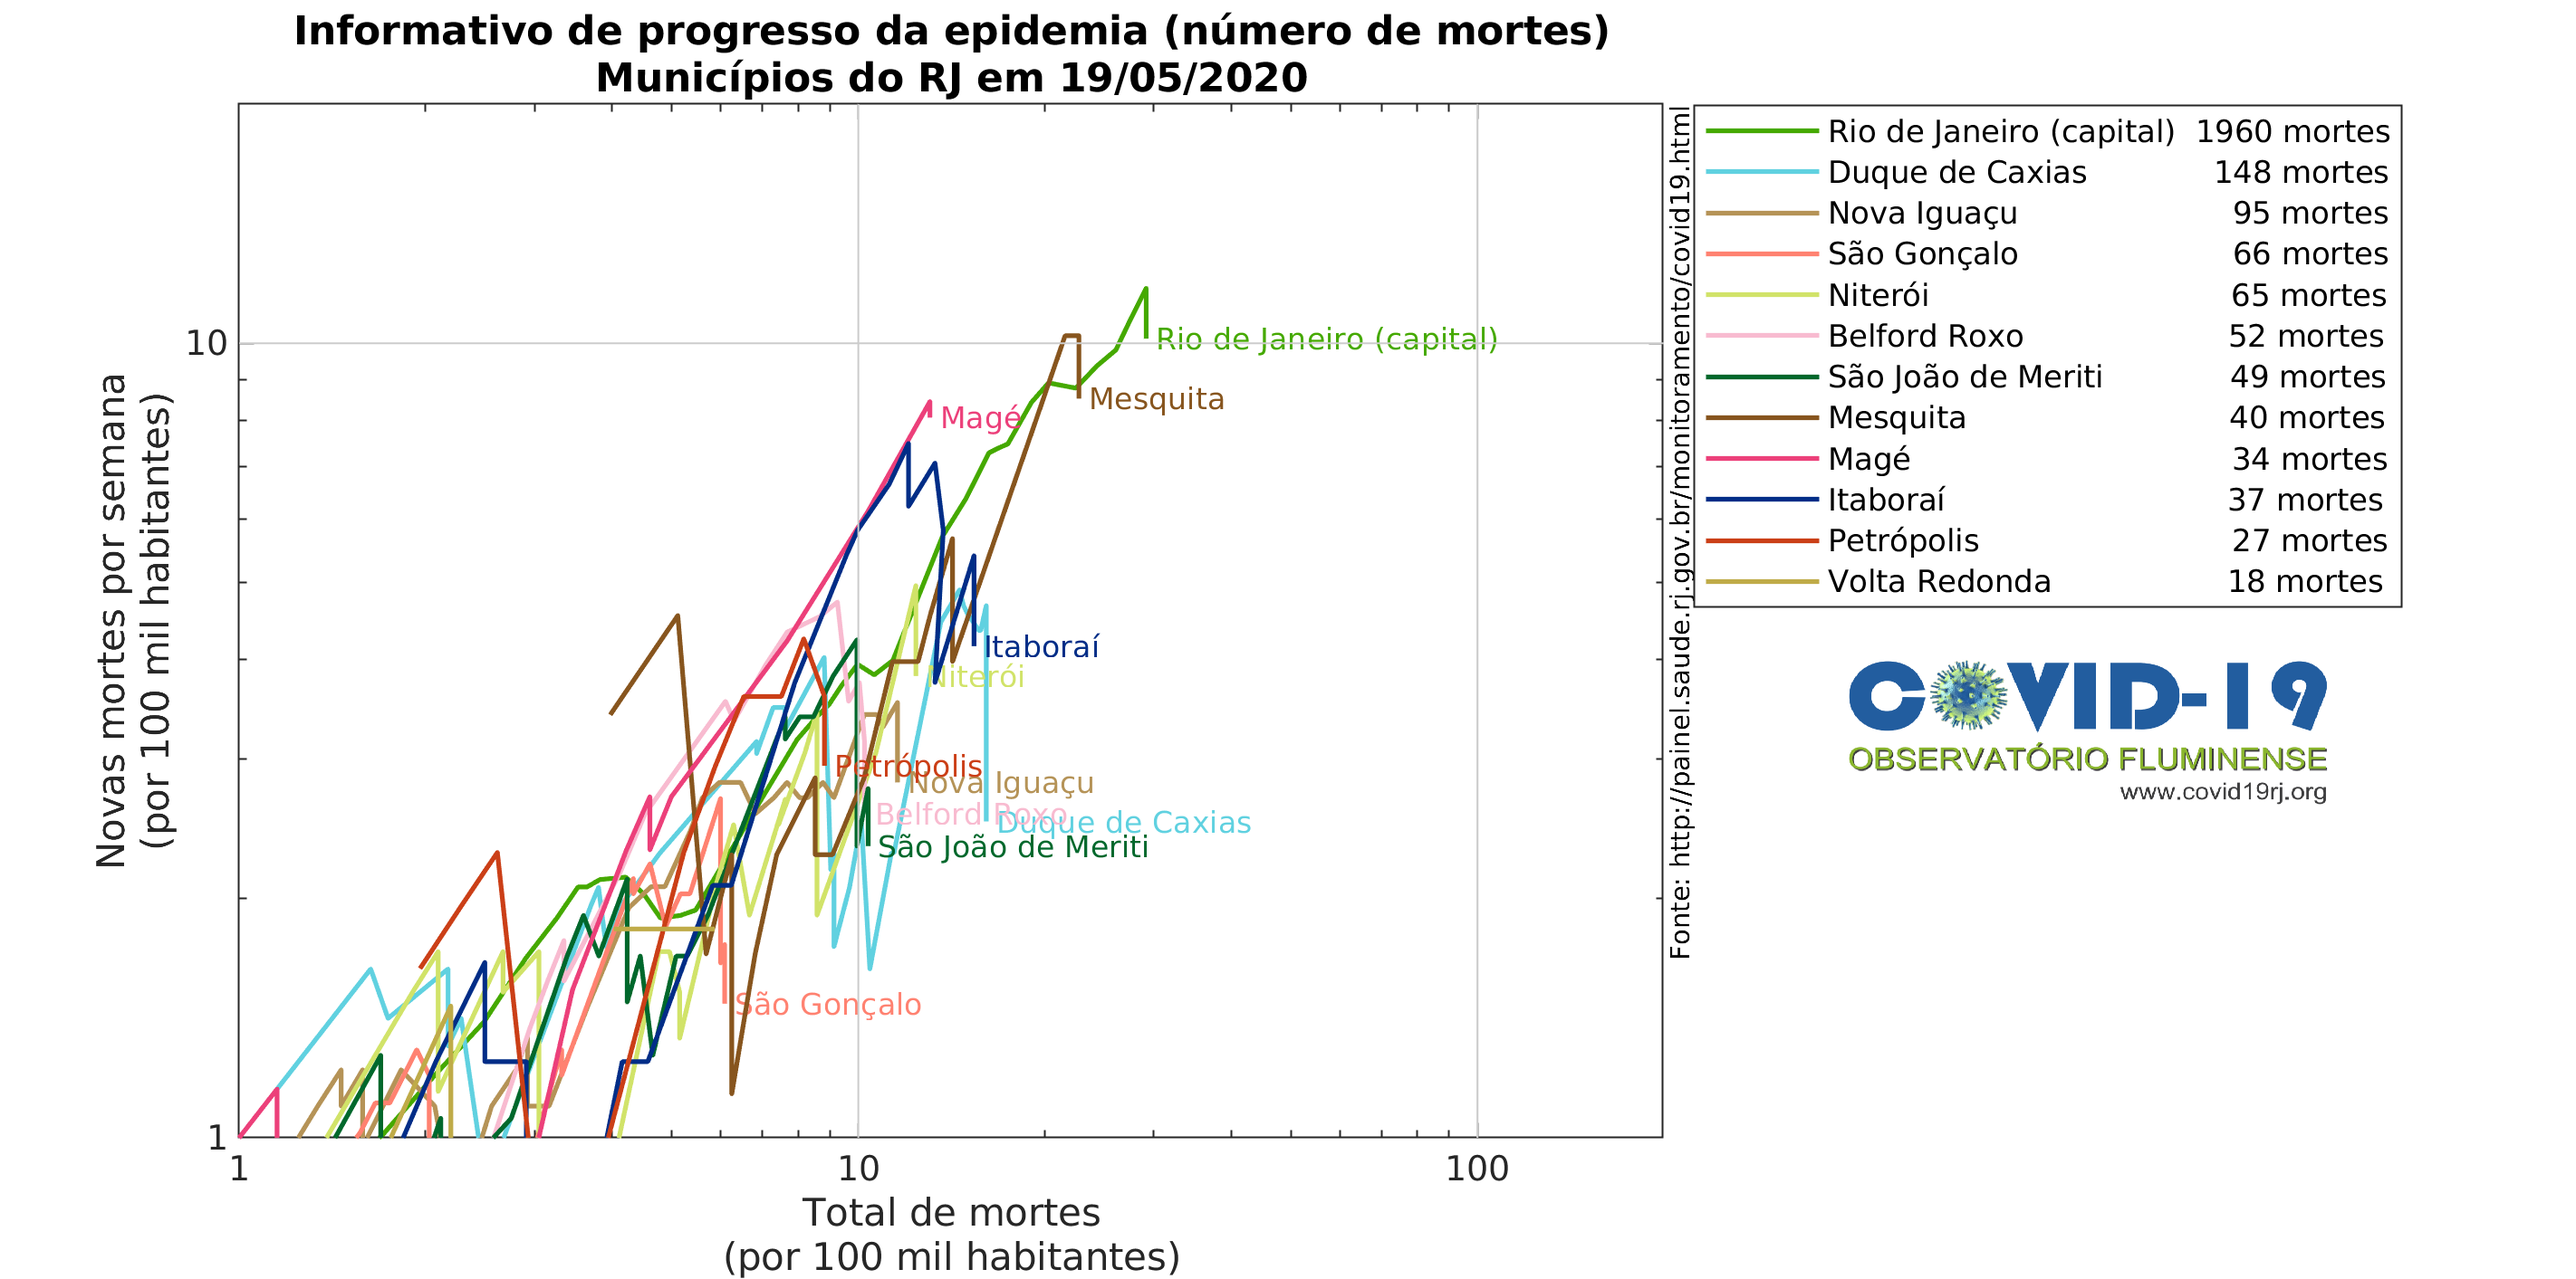
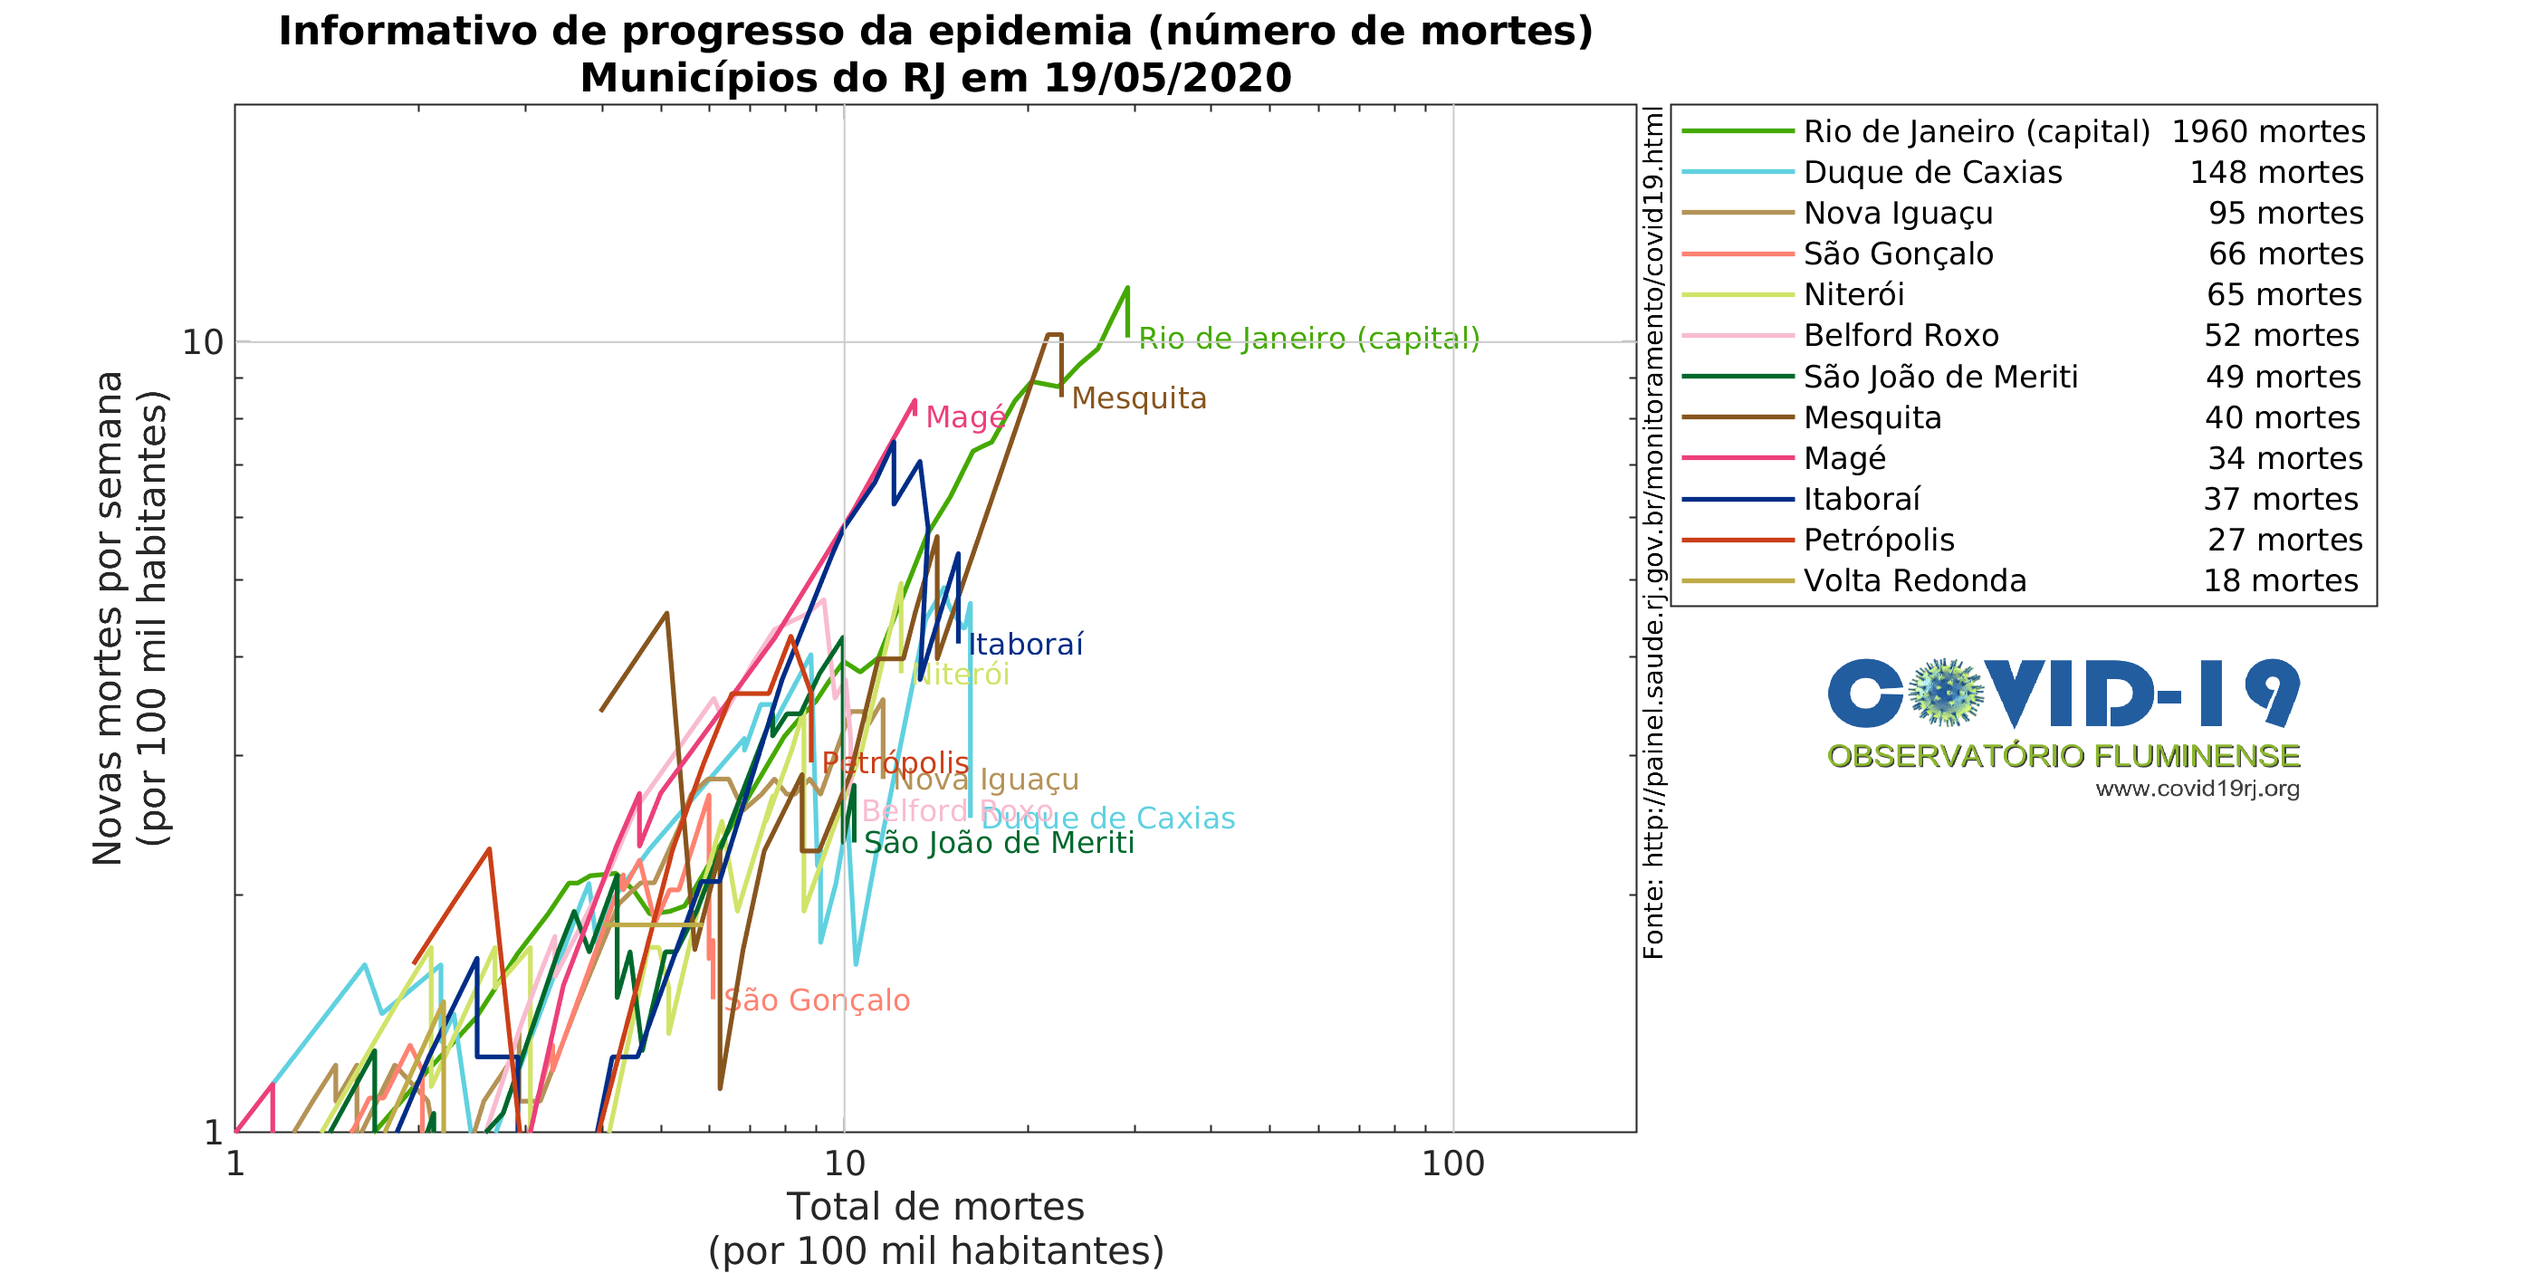
Update

diff --git a/Monitoramento/covid_RJ_pm.m b/Monitoramento/covid_RJ_pm.m
@@ -55,9 +55,9 @@ if (init == 3) city = 'Duque de Caxias/RJ'; pop = 919596; color = [96,209,224]/2
 if (init == 4) city = 'Nova Iguaçu/RJ'; pop = 821128; color = [181,147,87]/255; end
 if (init == 5) city = 'São Gonçalo/RJ'; pop = 1084839; color = [255,130,113]/255; end
 if (init == 2) city = 'Niterói/RJ'; pop = 524687; color = [209,227,105]/255; end
-if (init == 8) city = 'Belford Roxo/RJ'; pop = 508013; color = [248,187,208]/255; end
+if (init == 9) city = 'Belford Roxo/RJ'; pop = 508013; color = [248,187,208]/255; end
 if (init == 6) city = 'São João de Meriti/RJ'; pop = 472406; color = [0,104,44]/255; end
-if (init == 9) city = 'Itaboraí/RJ'; pop = 240592; color = [0,45,135]/255; end
+if (init == 8) city = 'Itaboraí/RJ'; pop = 240592; color = [0,45,135]/255; end
 if (init == 10) city = 'Mesquita/RJ'; pop = 176103; color = [135,85,30]/255; end
 if (init == 12) city = 'Petrópolis/RJ'; pop = 306191; color = [203,63,23]/255; end
 if (init == 7) city = 'Volta Redonda/RJ'; pop = 273012; color = [191,171,72]/255; end
@@ -69,8 +69,8 @@ dates = table.date(find(strcmp([table.city],city)),:);
 end_time = max(datenum(dates));
 
 if strcmp(city, 'Rio de Janeiro/RJ') city = 'Rio de Janeiro (capital)'; end 
-if strcmp(city, 'Duque de Caxias/RJ') city = 'Duque de Caxias             '; end 
-if strcmp(city, 'Nova Iguaçu/RJ') city = 'Nova Iguaçu                    '; end 
+if strcmp(city, 'Duque de Caxias/RJ') city = 'Duque de Caxias           '; end 
+if strcmp(city, 'Nova Iguaçu/RJ') city = 'Nova Iguaçu                  '; end 
 if strcmp(city, 'São Gonçalo/RJ') city = 'São Gonçalo                    '; end 
 if strcmp(city, 'Niterói/RJ') city = 'Niterói                           '; end 
 if strcmp(city, 'Belford Roxo/RJ') city = 'Belford Roxo                   '; end 
@@ -82,6 +82,7 @@ if strcmp(city, 'Volta Redonda/RJ') city = 'Volta Redonda                '; end
 if strcmp(city, 'Magé/RJ') city = 'Magé                               '; end 
 
 end
+
 
 tot_cases = cell2mat(location(:,9));
 new_cases = cell2mat(location(:,8));
